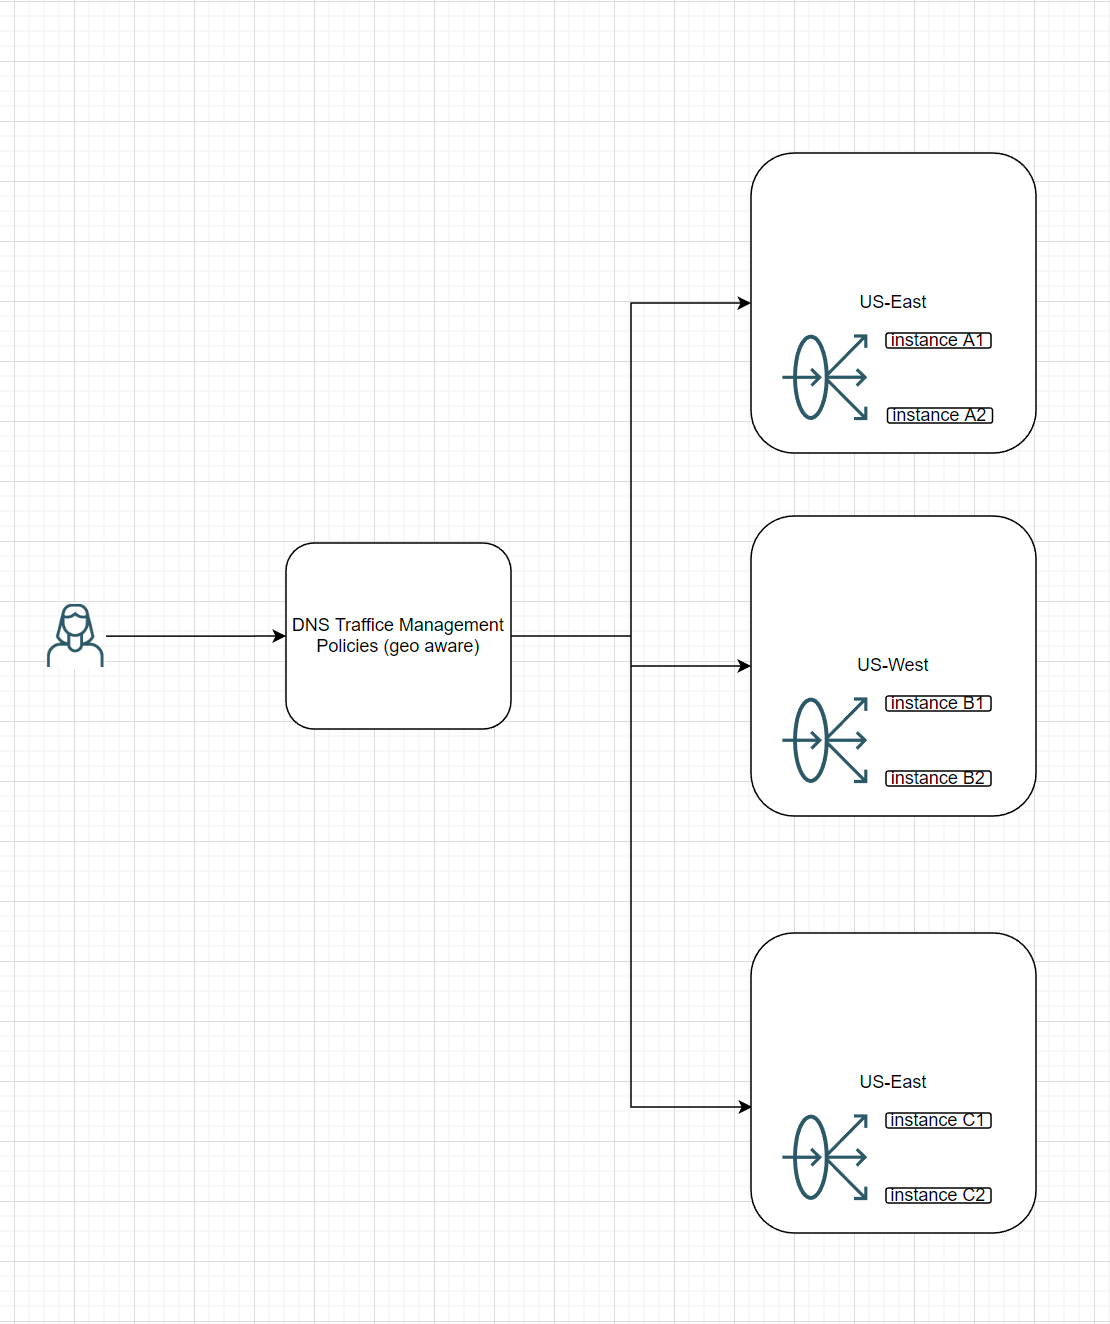
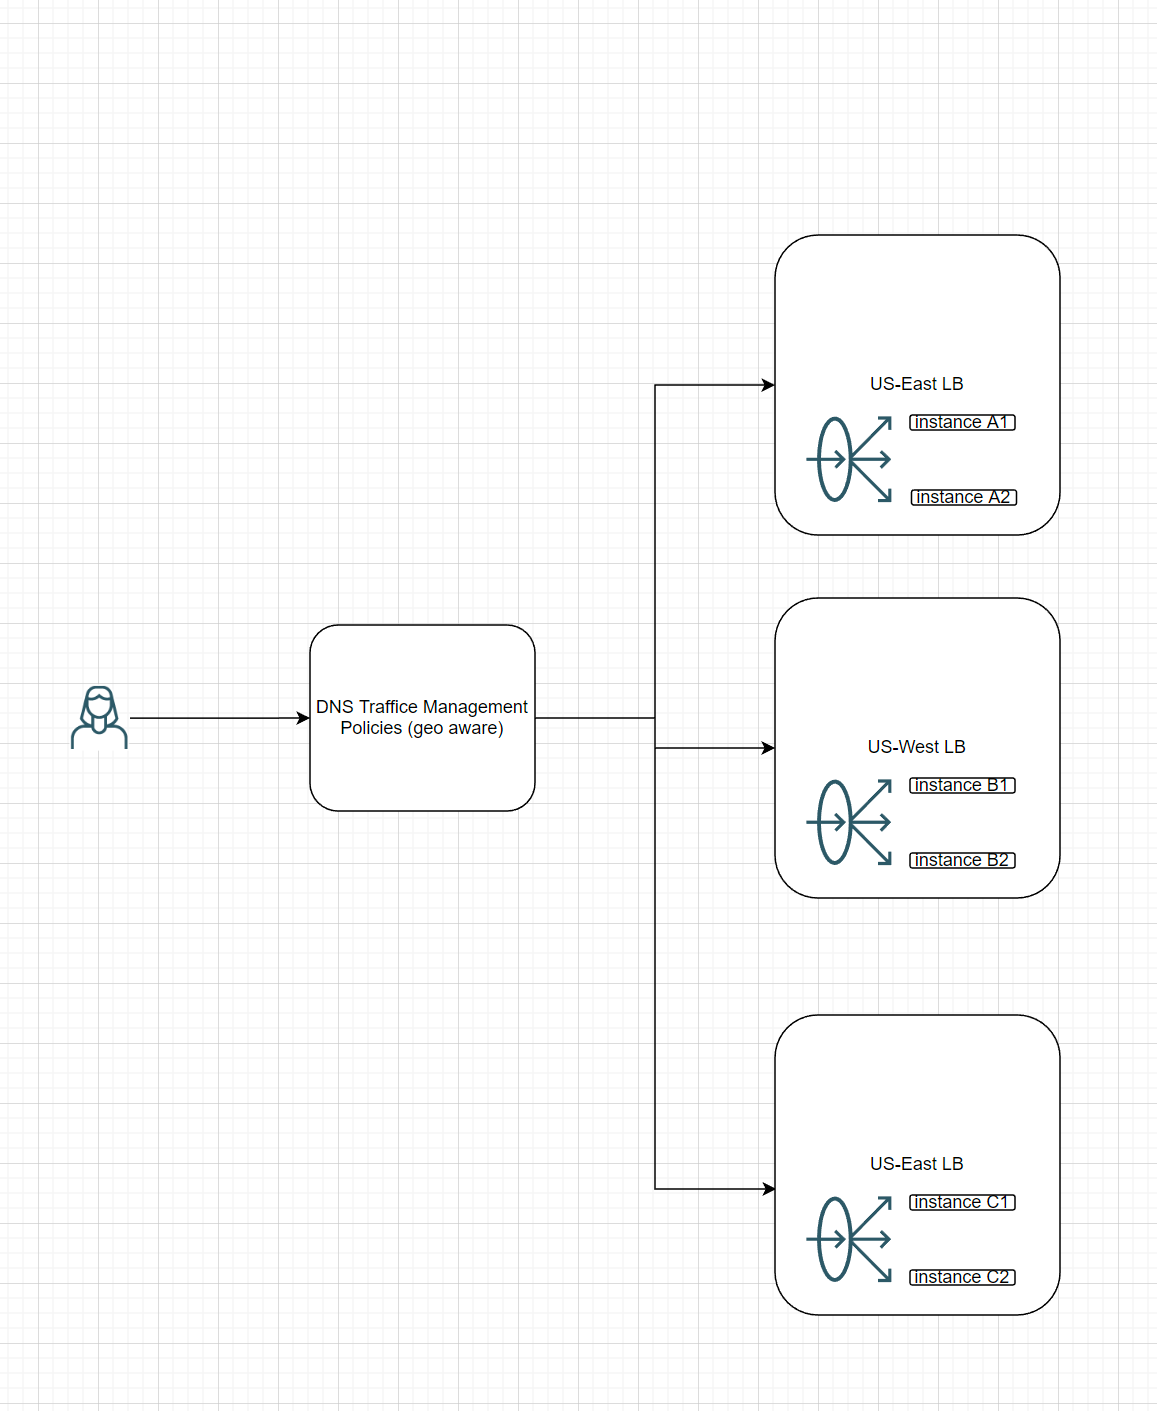
theme changes

diff --git a/source/_posts/build-a-high-availability-architecture-in-oracle-cloud.md b/source/_posts/build-a-high-availability-architecture-in-oracle-cloud.md
@@ -21,13 +21,18 @@ We'll show how to create this architecture step by step
 
 ## create load balancers in different regions
 - Go to  Network->Load balancer and create a general Load balancer
+![crete-load-balancer](/images/oracle/create-lb.png)
 - Select the corresponding instance network and subnet
-- Select Backend Type, Weight Round Robin
-- Add backend set, select at least two servers with ports to achieve high availability in the area
+- Create Backend set, Select Backend Type, Weight Round Robin
+![crete-backend-set](/images/oracle/create-backend-set.png)
+- Add servers to backend set, select at least two servers with ports to achieve high availability in the area
+![lb-backend](/images/oracle/lb-backend.png)
 - Add Listener; we choose HTTP and listen on port 80. If HTTPS is needed, we can add Listener later
+![lb-Listener](/images/oracle/lb-listener.png)
 - Use the default health check or adjust it according to the needs of the application
 
 After the creation is complete, the Load balancer will have a public network IP, and we will use this IP in the following steps.
+![lb-overview](/images/oracle/load-balancer.png)
 
 
 ## create a DNS record
@@ -53,12 +58,13 @@ ASN steering policies enable you to steer DNS traffic based on autonomous system
 The IP prefix steering policy enables customers to direct DNS traffic based on the IP prefix of the original query.
 
 Here we will use the Geolocation guidance method to configure.
- Select Networking, > Traffic Management Steering Policies -> Create Traffic Management Steering Policy.
-Select  Geolocation Steering
- Enter the name of the rules; other fields keep the default.
-Add an answer pool. We will create an answer pool for the load-balancer in each area, and the name can be the region name; selects A record and fill in the IP of the corresponding load-balancer
- Define the rules,We can define the direction of the traffic according to the region. Here we create the corresponding answer order according to the priority of our rules.
- Add the Global > Catch-all rule. This rule is when our previous rules do not match the matching rules to be carried out in the future and also creates the corresponding response order according to the priority of our rules
-On the bound domain, click Attached Domains. We can add a subdomain, such as hello.example.com
+- Select Networking, > Traffic Management Steering Policies -> Create Traffic Management Steering Policy.
+- Select  Geolocation Steering Enter the name of the rules; other fields keep the default.
+- Add an answer pool. We will create an answer pool for the load-balancer in each area, and the name can be the region name; selects A record and fill in the IP of the corresponding load-balancer
+![traffic-managements](/images/oracle/traffic-managements.png)
+- Define the rules,We can define the direction of the traffic according to the region. Here we create the corresponding answer order according to the priority of our rules.
+- Add the Global > Catch-all rule. This rule is when our previous rules do not match the matching rules to be carried out in the future and also creates the corresponding response order according to the priority of our rules
+![traffic-managements-rules](/images/oracle/traffic-managements-rules.png)
+- On the bound domain, click Attached Domains. We can add a subdomain, such as hello.example.com
 
-In this way, we have completed all the steps to create a cross-region highly available application in OCI.
+In this way, we have completed all the steps to create a cross-region highly available application in OCI. 
